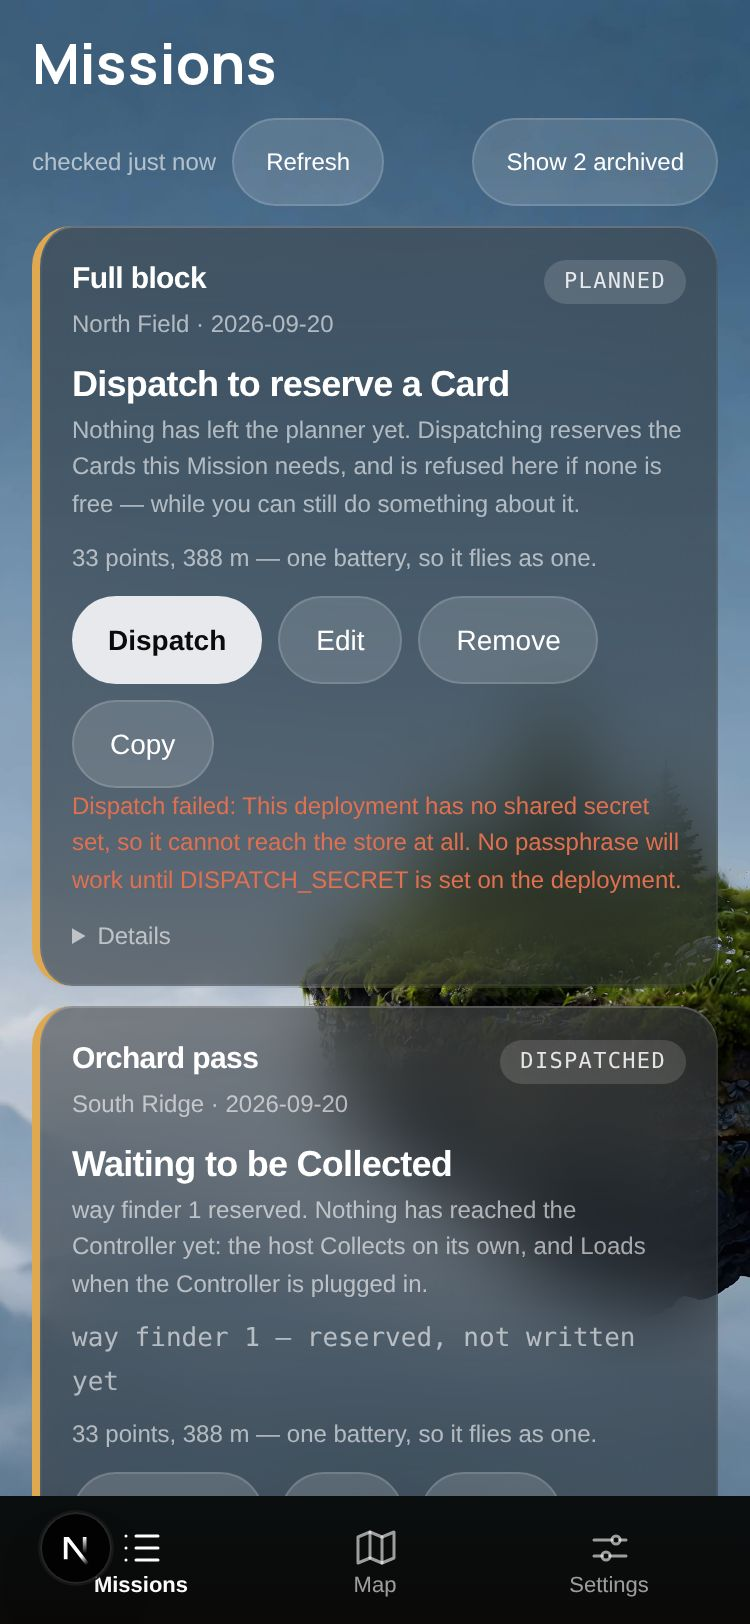
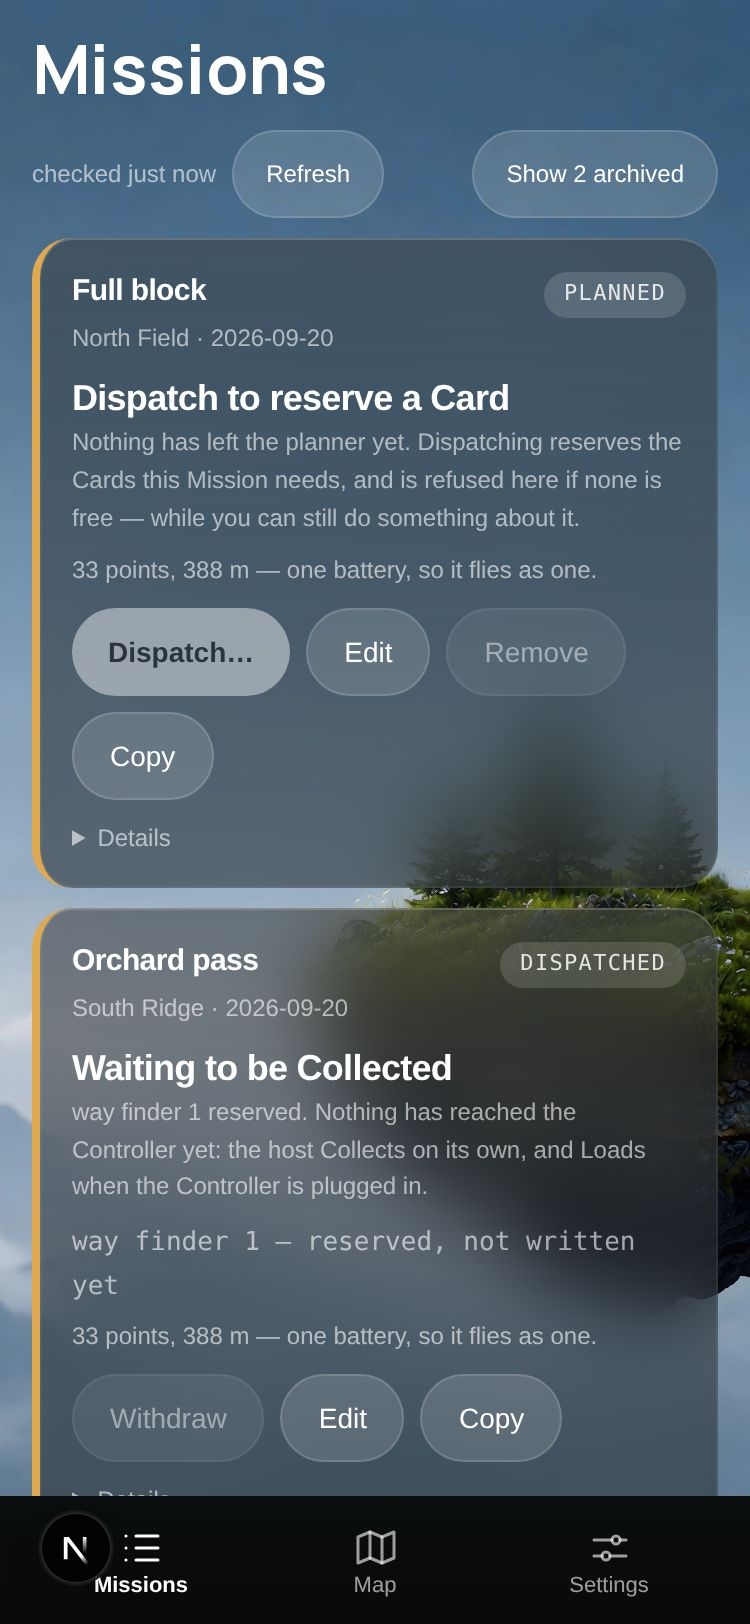
UI-4 review fixes: passphrase error names no location, screen title to spec size
Two changes from review:

- lib/auth.ts: the 401's wording used to send the operator to "the box beside
  Save, along the bottom of the map" — read from inside the Missions view's
  own gate (plan decision 17), that sends them to a box elsewhere, which is
  exactly what the decision removes. Reworded to name no location: "That
  passphrase is not the one this deployment expects. Retype it; it is kept
  only in this browser." No test or Python-side code asserted the old
  wording (checked).
- plan.module.css: .viewTitle was 28px; spec § 6 fixes the screen title at
  34/1.1/700. Fixed, and confirmed it still fits beside the collapse chevron
  at 375px and in the 340px wide panel (screenshots).

Also added a passphrase.test.ts case: writePassphrase still notifies every
subscriber when the underlying storage write throws (quota, private mode).

Re-ran npm test (167 pass), npm run lint (clean) and npm run build (clean).
Re-took all UI-4 screenshots against the updated title size, plus a new
phone-01b-wrong-passphrase.jpg showing the corrected error text in the gate.

Claude-Session: https://claude.ai/code/session_013QVou7mLCzTtHRofZKW74Y

Changed region(s): [[0.0307, 0.0, 0.9813, 0.9236], [0.0307, 0.1539, 0.0613, 0.1847]]

diff --git a/web/lib/passphrase.test.ts b/web/lib/passphrase.test.ts
@@ -72,3 +72,24 @@ test("a write reaches every subscriber, in this tab, without a storage event", (
 test("the key is the one the rest of the app already reads and writes under", () => {
   assert.equal(PASSPHRASE_KEY, "drone-planner.wayfinder-key");
 });
+
+test("a write that throws (quota, private mode) still reaches every subscriber", () => {
+  // getItem works (so `safeStorage()` accepts it), but setItem does not --
+  // the shape a full quota or private browsing actually takes.
+  const throwing = {
+    getItem: () => null,
+    setItem: () => {
+      throw new DOMException("The quota has been exceeded.", "QuotaExceededError");
+    },
+  } as unknown as Storage;
+  const seen: string[] = [];
+  const stop = subscribePassphrase((v) => seen.push(v));
+  try {
+    withStorage(throwing, () => {
+      writePassphrase("kept in memory only");
+    });
+  } finally {
+    stop();
+  }
+  assert.deepEqual(seen, ["kept in memory only"], "the field typed into still shows it, and so does the other");
+});

diff --git a/web/lib/auth.ts b/web/lib/auth.ts
@@ -26,11 +26,13 @@ export function authProblem(request: Request): Response | null {
   }
   const given = request.headers.get("x-wayfinder-key") ?? "";
   if (!given || !secretMatches(given, expected)) {
+    // Named to no location: this is read from more than one field now (the
+    // Missions view's own, and the Summary's beside Save -- plan decision
+    // 17), and naming one of them here would point the operator at a box
+    // elsewhere, which is exactly what that decision removes.
     return Response.json(
       {
-        error:
-          "That passphrase is not the one this deployment expects. Retype it in the box beside Save, " +
-          "along the bottom of the map; it is stored only in this browser.",
+        error: "That passphrase is not the one this deployment expects. Retype it; it is kept only in this browser.",
       },
       { status: 401 },
     );

diff --git a/web/app/plan/plan.module.css b/web/app/plan/plan.module.css
@@ -36,7 +36,8 @@
 .viewTitle {
   margin: 0 0 12px;
   font-family: var(--display), var(--sans);
-  font-size: 28px;
+  /* Spec § 6, "Screen title": 34/1.1/700 exactly -- no CSS token for it yet. */
+  font-size: 34px;
   line-height: 1.1;
   font-weight: 700;
   color: var(--on-glass);
